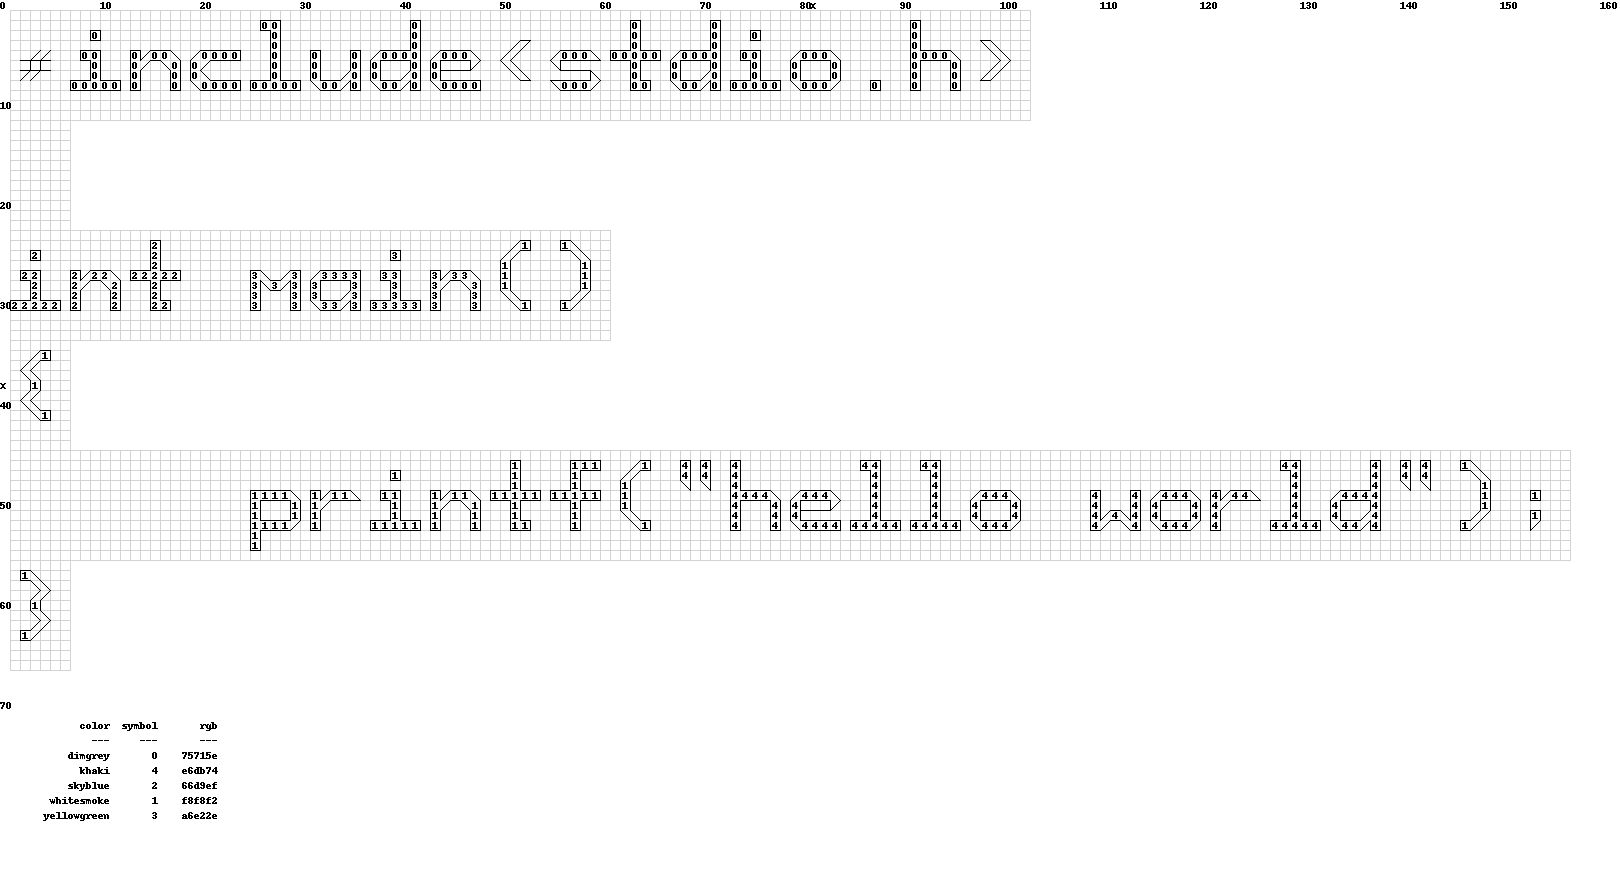
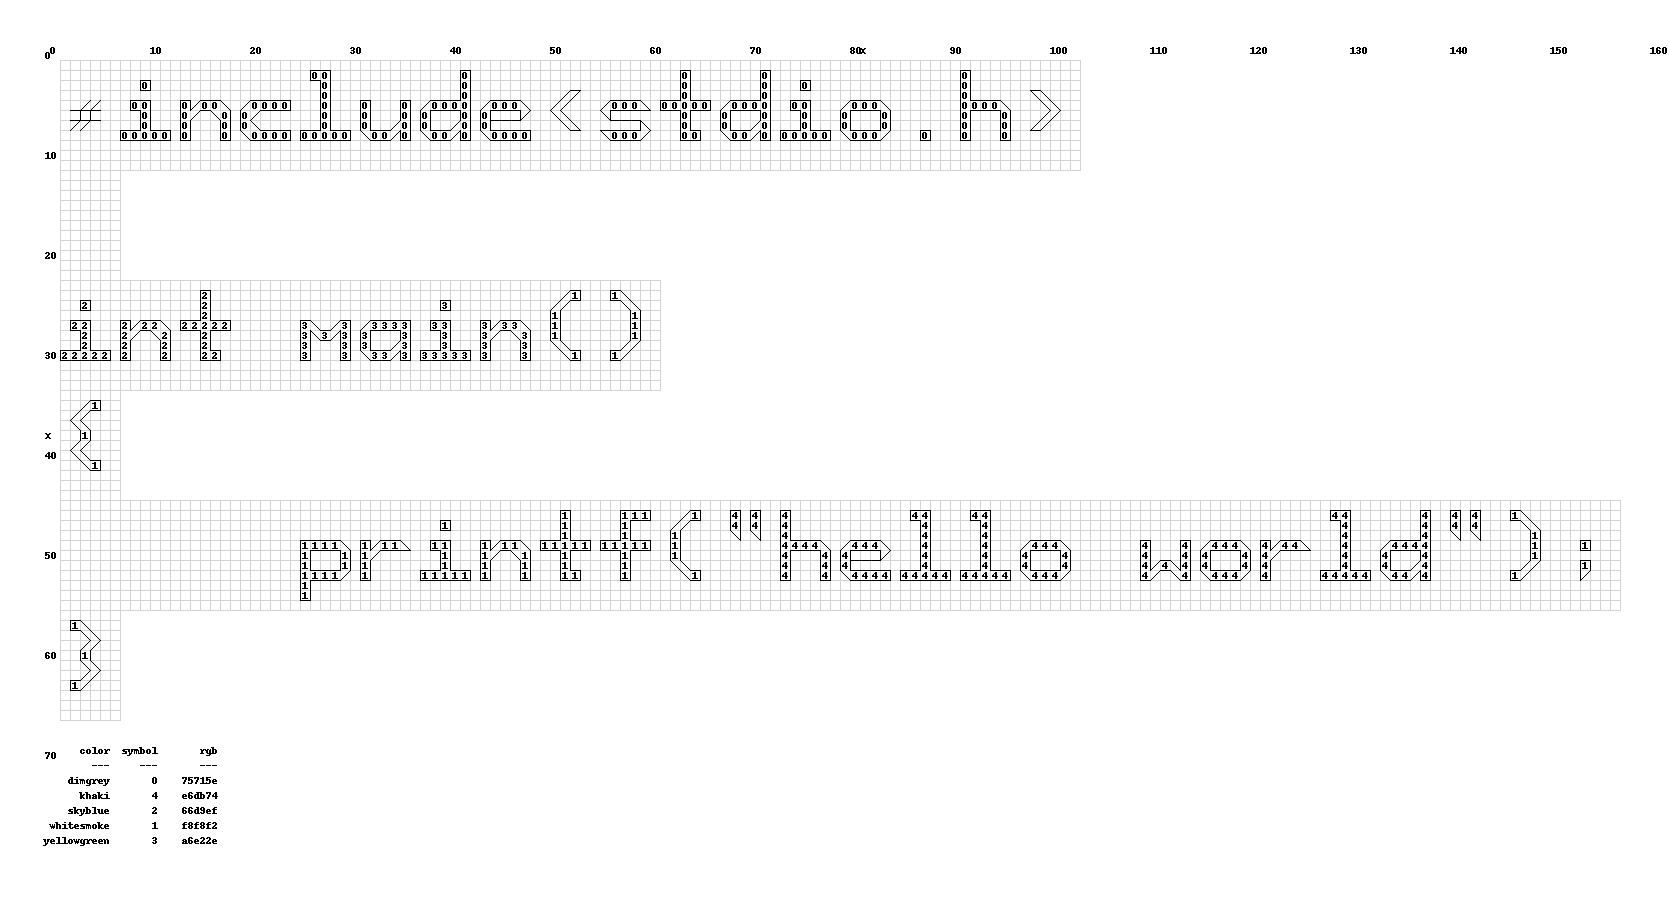
adding format and padding of format outputs

diff --git a/pyxstitch/formatter.py b/pyxstitch/formatter.py
@@ -130,9 +130,11 @@ class CrossStitchFormatter(Formatter):
         mid_height = int(floor(calc_height / 2))
         offset = 10
         legend = 100
+        top_pad = 50
+        left_pad = 50
         im = Image.new('RGB',
-                       (calc_width * offset,
-                        (calc_height * offset) + legend),
+                       (calc_width * offset + left_pad,
+                        (calc_height * offset) + top_pad + legend),
                        default_rgb)
         dr = ImageDraw.Draw(im)
         y = -1
@@ -152,10 +154,10 @@ class CrossStitchFormatter(Formatter):
                         color = coloring
                     for cell in cur.cells(height):
                         x += 1
-                        x_start = offset + 0 + x * offset
-                        y_start = offset + 0 + y * offset
-                        x_end = offset + offset + x * offset
-                        y_end = offset + offset + y * offset
+                        x_start = left_pad + offset + 0 + x * offset
+                        y_start = top_pad + offset + 0 + y * offset
+                        x_end = left_pad + offset + offset + x * offset
+                        y_end = top_pad + offset + offset + y * offset
                         dr.rectangle([(x_start, y_start), (x_end, y_end)],
                                      outline=self._lines)
                         for stitch in cell:
@@ -199,7 +201,8 @@ class CrossStitchFormatter(Formatter):
                                                   color))
                             if isinstance(stitch, ft.Stitch):
                                 if stitch == ft.Stitch.CrossStitch:
-                                    dr.text((offset + 2 + x * offset, y_start),
+                                    x_pos = left_pad + offset + 2 + x * offset
+                                    dr.text((x_pos, y_start),
                                             symb,
                                             color)
                         has = True
@@ -216,14 +219,14 @@ class CrossStitchFormatter(Formatter):
                         char = str(w)
                         if w == mid_width:
                             char = "X"
-                        dr.text((w * offset, 0),
+                        dr.text((left_pad + w * offset, top_pad - 5),
                                 char,
                                 self._symbols)
             if h % 10 == 0 or h == mid_height:
                 char = str(h)
                 if h == mid_height:
                     char = 'X'
-                dr.text((0, h * offset),
+                dr.text((left_pad - 5, top_pad + h * offset),
                         char,
                         self._symbols)
         # and legend
@@ -231,9 +234,9 @@ class CrossStitchFormatter(Formatter):
                       [("color", "symbol", "rgb"), ("---", "---", "---")] +
                       sorted(list(set(legends)))]
         chunk_idx = 0
+        leg_height = (calc_height * offset) - (legend / 4)
         for chunk in self._legend(legend_tab, 8):
-            dr.text((offset * 2 + (chunk_idx * 200),
-                     (calc_height * offset) - (5 * offset)),
+            dr.text((offset * 2 + (chunk_idx * 200), leg_height),
                     "\n".join(chunk),
                     self._symbols)
             chunk_idx += 1
